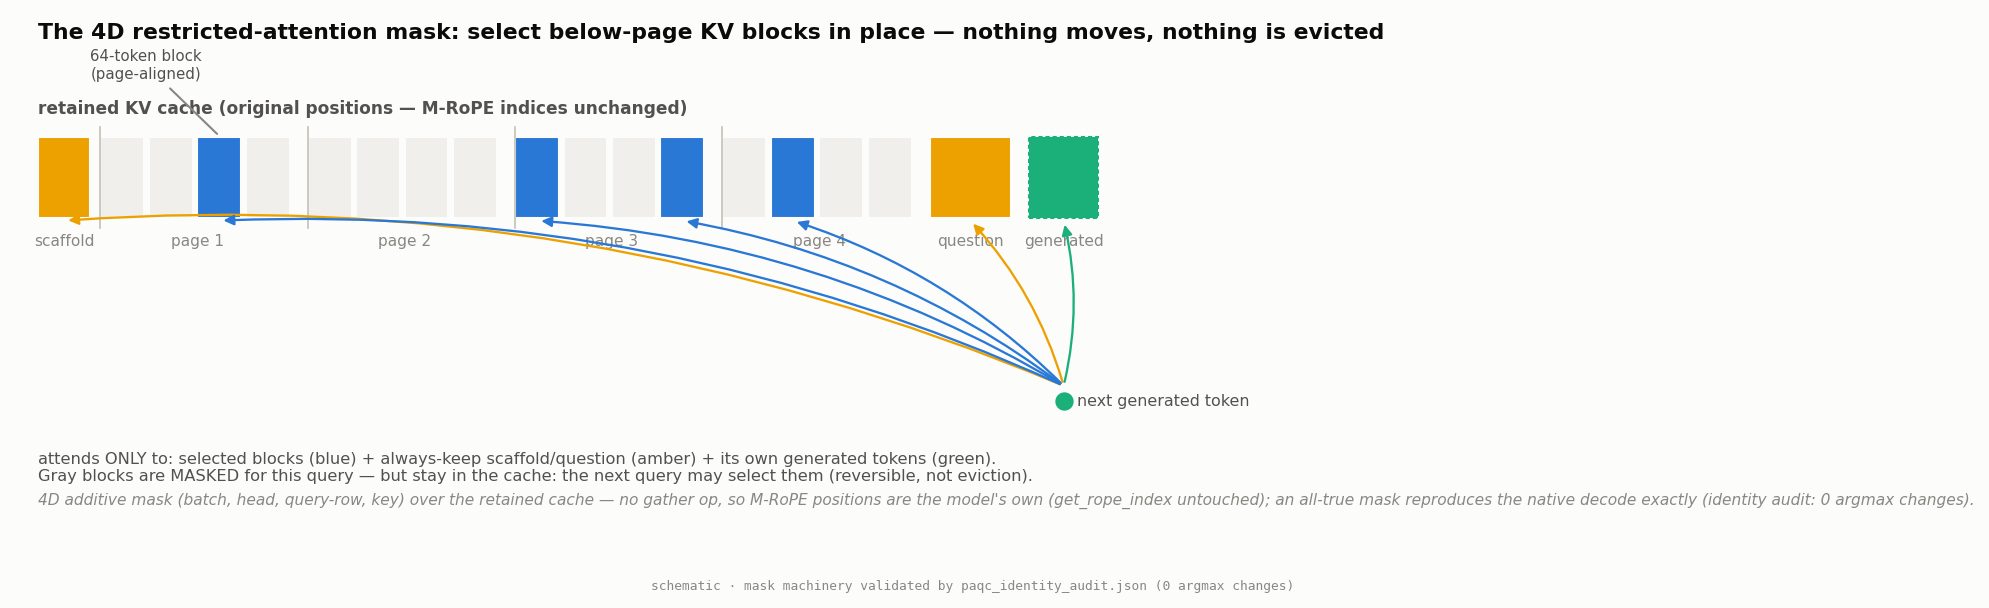
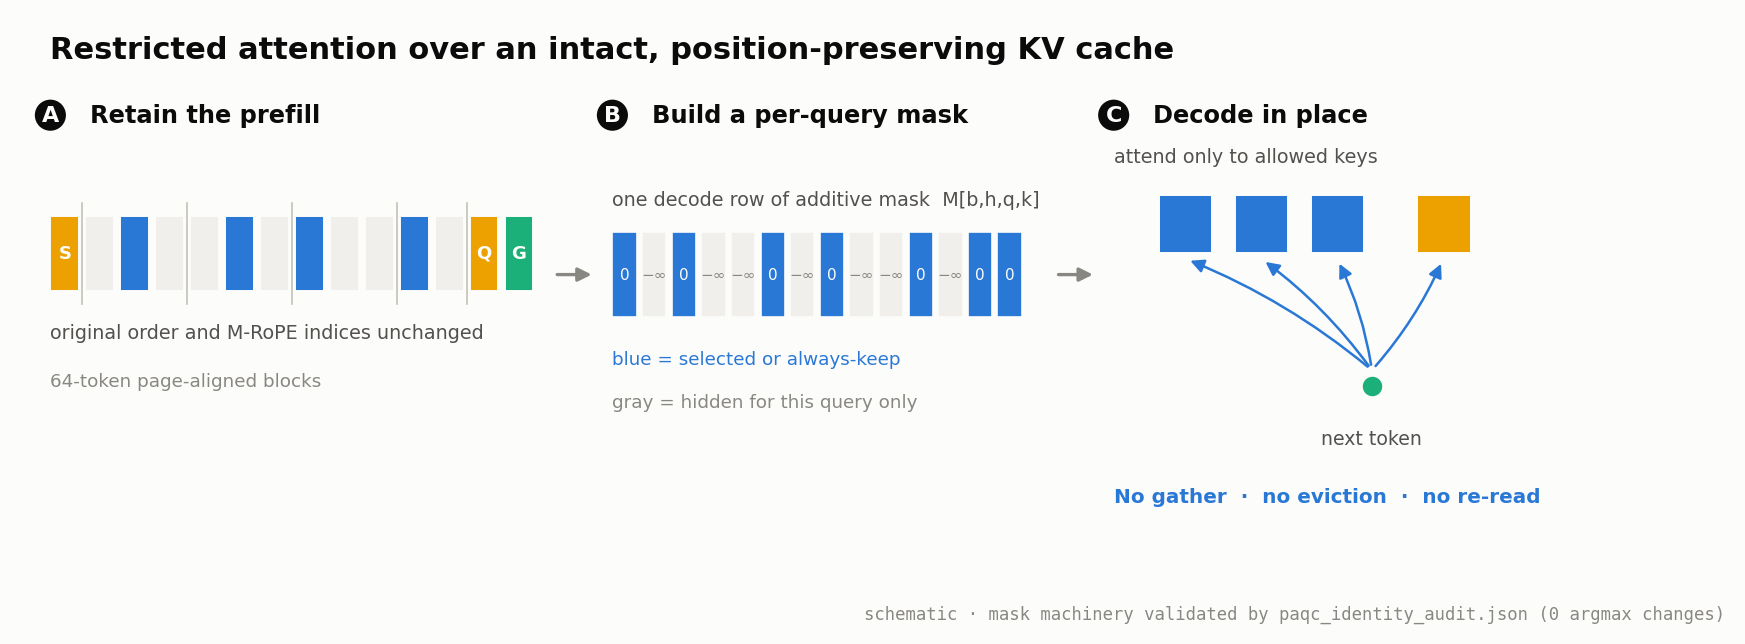
style update 2

diff --git a/paq_aaai_v2.tex b/paq_aaai_v2.tex
@@ -62,6 +62,13 @@ Real document-VQA workloads are multi-query: one long document is prefilled once
 
 \section{Introduction}\label{sec:intro}
 
+\begin{figure}[t]
+\centering
+\includegraphics[width=\columnwidth]{fig_l_paqkv_overview_light.pdf}
+\caption{Method and sealed result at a glance. On fresh, disjoint MMLongBench-Doc, \paqc{}@5\% scores $0.396$ versus $0.320$ for corrected-loader ColQwen2 ($+0.076$, document-clustered 95\% CI $[+0.029,+0.122]$; 45 documents, 244/244 queries).}
+\label{fig:overview}
+\end{figure}
+
 Long-context vision-language models (VLMs) can read an entire multi-page document, but they pay for every page on every question. The standard efficiency response, inherited from single-query text benchmarks, is to \emph{evict}: keep a compact subset of the KV cache and decode against it \citep{li2024snapkv,zhang2023h2o,chen2024fastv,wan2024lookm,kim2025kvzip}. Eviction is a single, irreversible commitment: whatever subset is kept must serve every future question about that document.
 
 In practice, however, document assistants are not asked one question. The two long-document VQA benchmarks we use are natively multi-query: grouping their 64K splits by source document, MMLongBench-Doc \citep{ma2024mmlongbench} averages ${\approx}6.97$ questions per document and LongDocURL \citep{deng2025longdocurl} ${\approx}3.6$; inside our pinned evaluation subsets the averages are 5.50 and 5.79 gold-bearing questions per document. Different questions need different evidence, so a subset committed for question~1 is stale for question~5.
@@ -97,8 +104,8 @@ Algorithm~\ref{alg:paqc} (Appendix~\ref{app:method-materials}) gives the loop an
 
 \begin{figure*}[t]
 \centering
-\includegraphics[width=0.92\textwidth]{fig_i_paqkv_mask_light.png}
-\caption{The mechanism. The retained cache is a strip of K/V at their original positions: scaffold, page content in 64-token page-aligned blocks, question, generated tokens. The 4D additive mask lets decode rows attend only to the per-query selected blocks plus the always-keep set; everything else is masked for this query only, and it stays in the cache, selectable by the next query. Because nothing is gathered, the M-RoPE position machinery is untouched, and an all-true mask reproduced the native decode in every audited case (identity audit: zero mask-specific argmax changes over the audited pairs).}
+\includegraphics[width=0.92\textwidth]{fig_i_paqkv_mask_light.pdf}
+\caption{Restricted-attention mechanism. \textbf{A:} The retained cache keeps scaffold, page content in 64-token page-aligned blocks, question, and generated tokens at their original positions. \textbf{B:} For each decode row, the 4D additive mask exposes only selected blocks and the always-keep set; masked blocks remain available to later questions. \textbf{C:} Decode attends to that view without gathering or evicting K/V, so M-RoPE indices remain untouched. An all-true mask reproduced native decode in every audited case (zero mask-specific argmax changes).}
 \label{fig:paqkvmask}
 \end{figure*}
 
@@ -275,12 +282,12 @@ All numbers in this section are on the 903-query confirmatory cohort (page-level
 
 \section{Additional Reversibility Detail}\label{app:reversibility}
 
-\begin{figure}[t]
+\begin{figure*}[t]
 \centering
-\includegraphics[width=\columnwidth]{fig_j_reversibility_light.png}
-\caption{Reversibility, the tested axis. \textbf{Top:} a commit-once deployment reuses one subset for every question and goes stale; re-selection re-derives the subset per query from the same retained prefill. \textbf{Bottom:} the isolation protocol across granularities: the confirmatory page-level contrasts, the clean re-run after the cache fix, and the block-level \paqc{} contrast. Every interval excludes zero.}
+\includegraphics[width=0.92\textwidth]{fig_j_reversibility_light.pdf}
+\caption{Reversibility, the tested axis. \textbf{Top:} commit-once reuses one fixed subset across questions, whereas re-selection derives a question-specific view from the same intact prefill. \textbf{Bottom:} document-clustered two-sided 95\% intervals for the confirmatory page-level contrasts, the clean-cache re-run, and the below-page \paqc{} replication. Every interval excludes zero.}
 \label{fig:reversibility}
-\end{figure}
+\end{figure*}
 
 \begin{figure}[t]
 \centering

diff --git a/README_BUILD.md b/README_BUILD.md
@@ -15,12 +15,14 @@ On any machine with full TeX Live the equivalent is:
 pdflatex paq_living && bibtex paq_living && pdflatex paq_living && pdflatex paq_living
 ```
 
-Figures are the light-theme PNGs in `figures/`, generated (light+dark) by
+Figures are generated as publication-quality vector PDFs plus preview PNGs (light+dark) by
 `BASED/scripts/paq_figs.py` from `research/paq_verdict.json` + `research/paq_t_gate_verdict.json`
-(nothing hand-entered — re-run the script and re-copy after any new verdict):
+and the figure-specific verdicts loaded by that script. The first-page overview reads the sealed
+result directly from `research/paq_sealed_final_sealed_verdict.json`; nothing is hand-entered.
+Re-run the script and re-copy after any new verdict:
 
 ```bash
 cd /home/andbu/Documents/autoresearch/BASED
 /home/andbu/miniconda3/envs/ml/bin/python scripts/paq_figs.py
-cp paper/figs/*_light.png ../BASED-PAQ-paper/figures/
+cp paper/figs/*_light.pdf paper/figs/*_light.png ../BASED-PAQ-paper/figures/
 ```